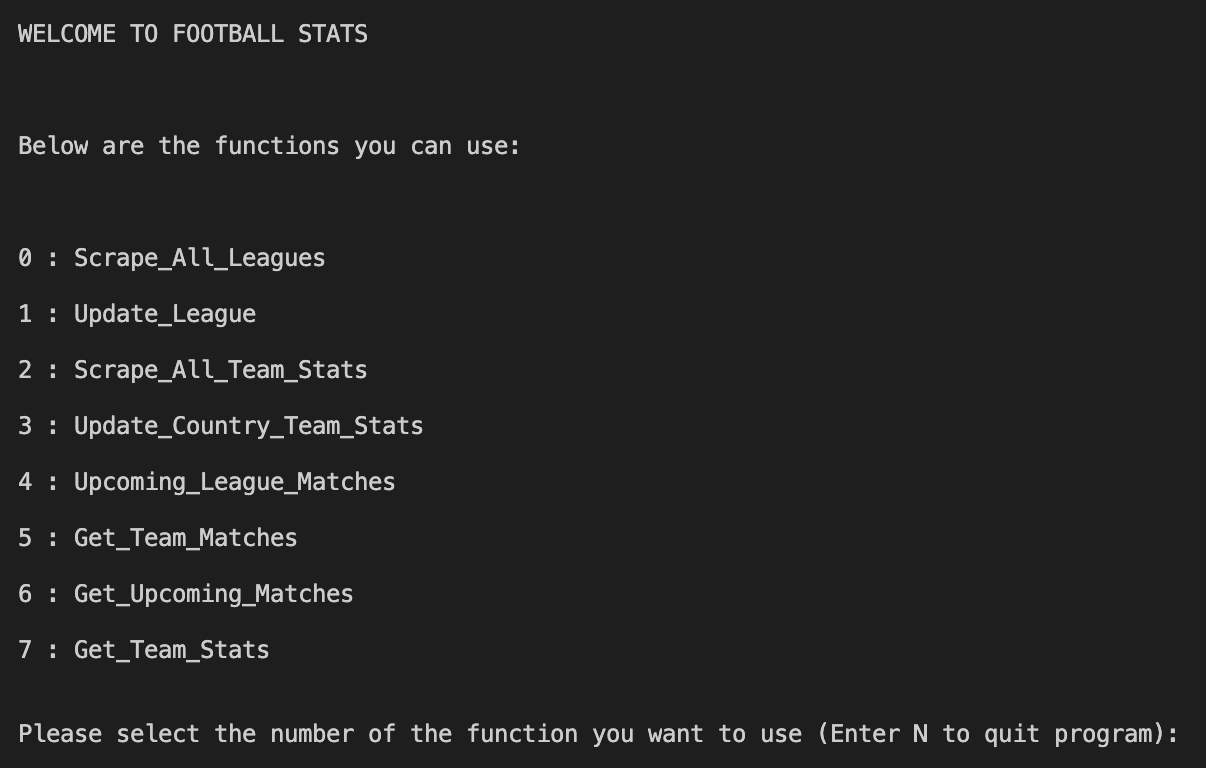
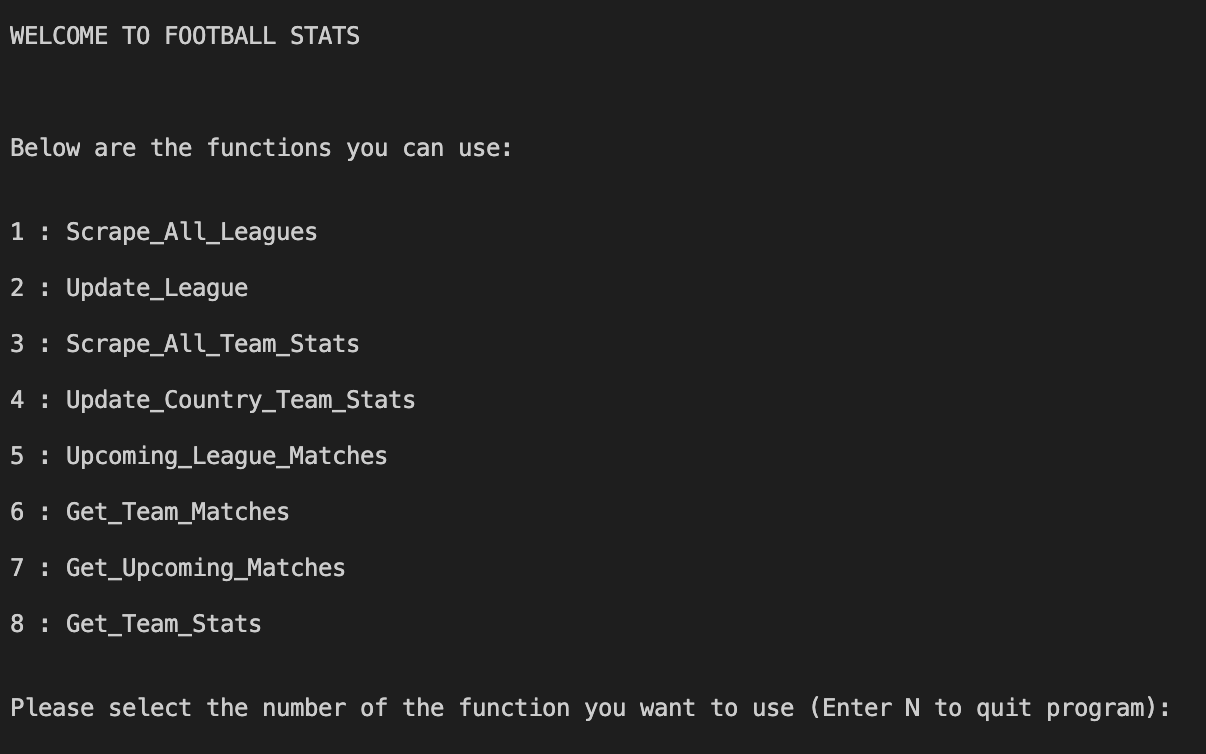
fixed numbering in football stats post and updated menu screen

diff --git a/_posts/2021-12-16-football-stats.md b/_posts/2021-12-16-football-stats.md
@@ -15,23 +15,23 @@ The program consists of 8 functions which the user can choose from as shown in t
 
 ## Function Guide:  
 
-0. **Scrape_All_Leagues**: All the data about the match results and upcoming matches of each country are scraped and stored into a csv file.
+1. **Scrape_All_Leagues**: All the data about the match results and upcoming matches of each country are scraped and stored into a csv file.
     - **Note**: This function should be executed first in order to download the data needed to execute the offline functions.  
 
 
-1. **Update_League**: Similar to All_leagues, it gets all the league data but only for a specific country, which is selected by the user.  
+2. **Update_League**: Similar to All_leagues, it gets all the league data but only for a specific country, which is selected by the user.  
 
-2. **Scrape_All_Team_Stats**: The data regarding the win/lose ratio of all the teams in all available countries is scraped and put into .csv files, one for each country.  
+3. **Scrape_All_Team_Stats**: The data regarding the win/lose ratio of all the teams in all available countries is scraped and put into .csv files, one for each country.  
 
-3. **Update_Country_team_Stats**: Similarly to All_Team_Stats, it updates win/lose ratio data of the teams in a selected country by the user.  
+4. **Update_Country_team_Stats**: Similarly to All_Team_Stats, it updates win/lose ratio data of the teams in a selected country by the user.  
 
-4. **Upcoming_League_Matches**: The upcoming future matches in a specific country are scraped. The country is selected by the user.  
+5. **Upcoming_League_Matches**: The upcoming future matches in a specific country are scraped. The country is selected by the user.  
 
-5. **Get_Team_Matches**: All the matches of a specific team and the match results are retrieved from the local csv files. The user enters the country and then the team they want to retrieve. Also, the matches of each selected team are stored into a csv file under its country folder.  
+6. **Get_Team_Matches**: All the matches of a specific team and the match results are retrieved from the local csv files. The user enters the country and then the team they want to retrieve. Also, the matches of each selected team are stored into a csv file under its country folder.  
 
-6. **Get_Upcoming_Matches**: Similarly to UpcomingLeagueMatches, it retrieves the upcoming matches of a specific country but from the local data that was scraped already. The user can also filter the results to show only a specific team's upcoming matches.  
+7. **Get_Upcoming_Matches**: Similarly to UpcomingLeagueMatches, it retrieves the upcoming matches of a specific country but from the local data that was scraped already. The user can also filter the results to show only a specific team's upcoming matches.  
 
-7. **Get_Team_Stats**: Similarly to CountryTeamMatches, it retrieves the win/lose ratio data of each team in a country, which is selected from the user. The difference is that it does so from the data that was scraped already. If the data was not scraped previously, the user is asked if they want to do so.  
+8. **Get_Team_Stats**: Similarly to CountryTeamMatches, it retrieves the win/lose ratio data of each team in a country, which is selected from the user. The difference is that it does so from the data that was scraped already. If the data was not scraped previously, the user is asked if they want to do so.  
 
 {: .box-note}
 You can find the code of this project [here.](https://github.com/AlexAlexandrou/WebScraping_FootballStats){:target="_blank"}
